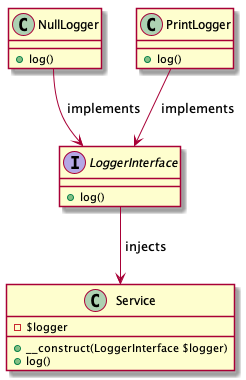
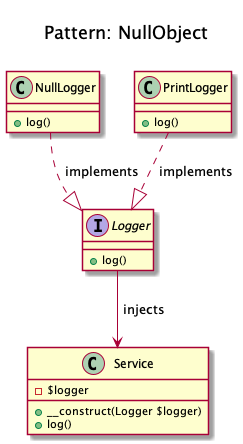
Rename Interface and add some fixes in Recipe.

diff --git a/patterns/behavioral/null-object/domnikl/Service.php b/patterns/behavioral/null-object/domnikl/Service.php
@@ -4,7 +4,7 @@ namespace Patterns\Behavioral\NullObject\Domnikl;
 class Service {
     private $logger;
 
-    public function __construct(LoggerInterface $logger) {
+    public function __construct(Logger $logger) {
         $this->logger = $logger;
     }
 

diff --git a/patterns/behavioral/null-object/domnikl/PrintLogger.php b/patterns/behavioral/null-object/domnikl/PrintLogger.php
@@ -1,7 +1,7 @@
 <?php
 namespace Patterns\Behavioral\NullObject\Domnikl;
 
-class PrintLogger implements LoggerInterface {
+class PrintLogger implements Logger {
     public function log(string $str) {
         echo $str;
     }

diff --git a/patterns/behavioral/null-object/domnikl/NullLogger.php b/patterns/behavioral/null-object/domnikl/NullLogger.php
@@ -1,7 +1,7 @@
 <?php
 namespace Patterns\Behavioral\NullObject\Domnikl;
 
-class NullLogger implements LoggerInterface{
+class NullLogger implements Logger{
     public function log(string $str){
         #
     }

diff --git a/patterns/behavioral/null-object/domnikl/Logger.php b/patterns/behavioral/null-object/domnikl/Logger.php
@@ -2,6 +2,6 @@
 namespace Patterns\Behavioral\NullObject\Domnikl;
 
 
-interface LoggerInterface {
+interface Logger {
     public function log(string $str);
 }

diff --git a/patterns/behavioral/null-object/readme.md b/patterns/behavioral/null-object/readme.md
@@ -21,7 +21,7 @@
   
   
 ## Recipe  
-+ Create Interface and implement it in all loggers.
++ Create the Logger Interface and implement it in all loggers classes.
 + Create the Class NullLogger.
 + Inject the Interface in main Service
 + You don't have to check if the logger is set with is_null(), instead just use it.
